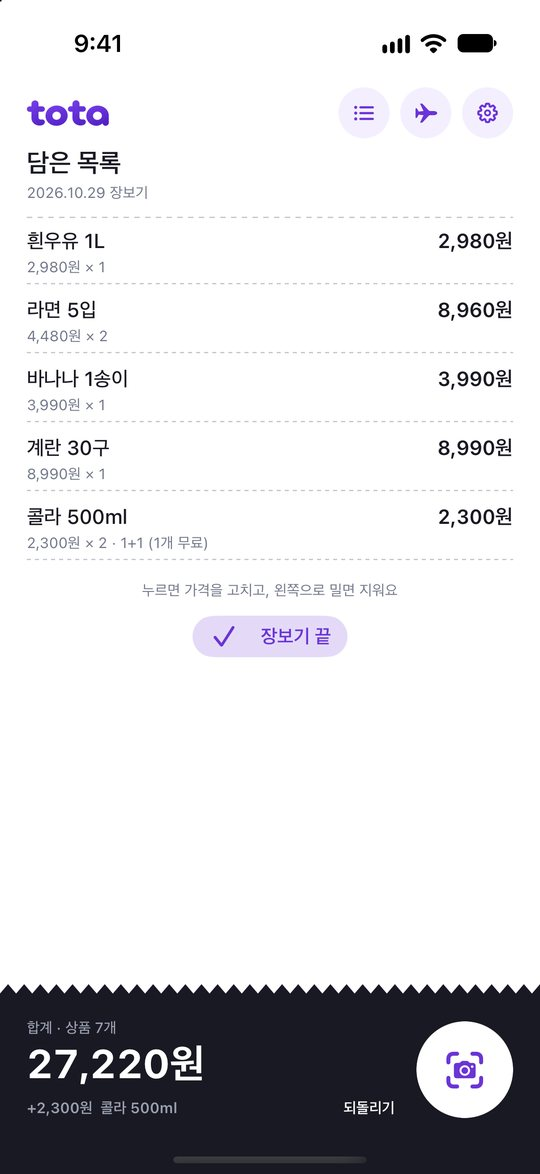
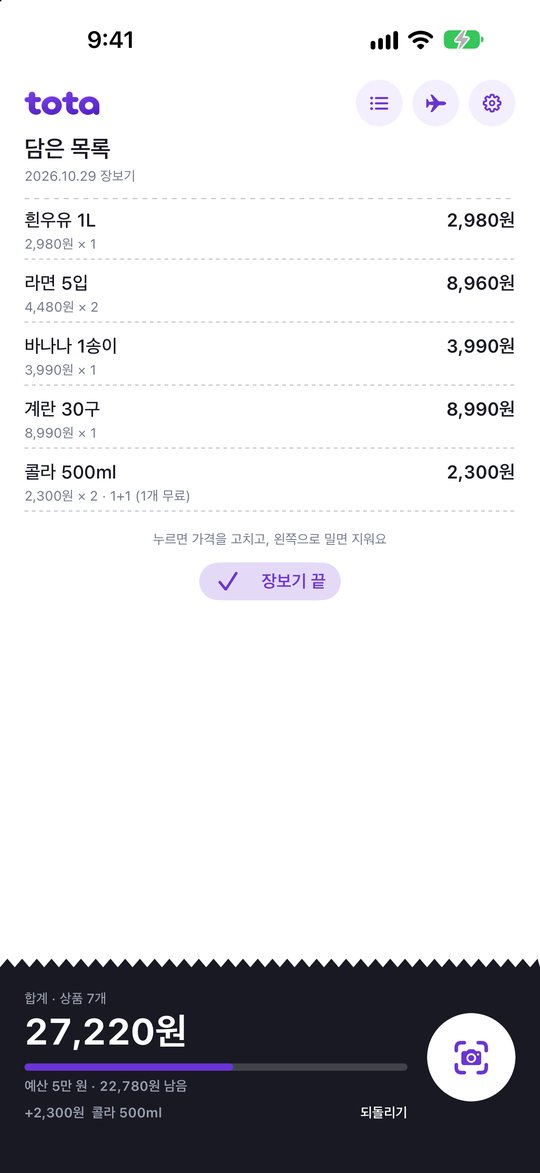
평소 장보기 예산, 외국어 상품 이름 번역 반영 (개인정보 처리방침·설명서)

diff --git a/privacy.html b/privacy.html
@@ -46,6 +46,7 @@ footer { margin-top: 48px; font-size: 13px; color: var(--gray); }
 
   <h2>3. 인터넷 사용</h2>
   <p>엔화·달러·유로 가격을 원화로 바꾸기 위해 공개 환율 서비스(Frankfurter, api.frankfurter.dev)에서 기준환율을 받아옵니다. 외화를 담거나 여행 모드를 시작할 때만, 최대 12시간에 한 번 요청합니다. 이때 이용자 정보는 보내지 않으며, 일반적인 인터넷 요청처럼 기기의 IP 주소만 그 서비스에 전달됩니다.</p>
+  <p>여행 모드에서 외국어 상품 이름은 앱에 든 단어장과 Apple의 번역 기능으로 우리말로 바꿔 보여줍니다. 번역은 iPhone 안에서만 이루어지며 상품 이름을 외부로 보내지 않습니다. 처음 쓸 때 iPhone이 번역 언어 파일을 내려받을지 물어볼 수 있습니다.</p>
   <p>상품을 고치는 화면에서 '온라인은 얼마지?'를 누르면, 이용자가 설정에서 고른 쇼핑몰 검색 페이지가 앱 안 브라우저로 열립니다. 이때 그 상품 이름이 검색어로 그 쇼핑몰에 전달됩니다. 이용자가 직접 누를 때만 열리며, 그 뒤의 정보 처리는 해당 쇼핑몰의 개인정보 처리방침을 따릅니다.</p>
 
   <h2>4. 제3자 제공</h2>
@@ -61,7 +62,7 @@ footer { margin-top: 48px; font-size: 13px; color: var(--gray); }
   <p>이 방침이 바뀌면 이 페이지에 시행일과 함께 알립니다.</p>
 
   <div class="card">
-    <p><b>English summary.</b> tota does not collect any personal data. Cart items, exchange rates and the install date are stored only on your device. Price tags are read on device with Apple's Vision framework; photos are never uploaded. The app requests public exchange rates from Frankfurter (api.frankfurter.dev) without sending any user data. When you tap "온라인은 얼마지?" on an item, the product name is sent as a search query to the shopping site you chose in Settings. No ads, analytics or accounts.</p>
+    <p><b>English summary.</b> tota does not collect any personal data. Cart items, exchange rates and the install date are stored only on your device. Price tags are read on device with Apple's Vision framework; photos are never uploaded. Foreign product names are translated on device with a built-in glossary and Apple's Translation framework. The app requests public exchange rates from Frankfurter (api.frankfurter.dev) without sending any user data. When you tap "온라인은 얼마지?" on an item, the product name is sent as a search query to the shopping site you chose in Settings. No ads, analytics or accounts.</p>
   </div>
 
   <footer>© 2026 tota</footer>

diff --git a/guide.html b/guide.html
@@ -138,6 +138,7 @@ footer { margin-top: 48px; font-size: 13px; color: var(--gray); }
         <li>방금 담은 걸 빼고 싶으면 합계 옆 <b>되돌리기</b>를 누르세요.</li>
         <li>상품을 <b>왼쪽으로 밀면</b> 지울 수 있어요.</li>
         <li>상품을 <b>누르면</b> 가격, 수량, 이름을 고칠 수 있어요.</li>
+        <li>합계 아래 <b>예산 정하기</b>를 누르면 장보기 예산을 정해요. 80%를 넘으면 주황, 넘치면 빨강으로 알려주고 촬영 화면 위에도 남은 예산이 보여요.</li>
       </ul>
     </div>
     <figure><img class="shot" src="guide/04-cart.jpg" alt="담은 상품 목록과 합계" loading="lazy"></figure>
@@ -196,6 +197,7 @@ footer { margin-top: 48px; font-size: 13px; color: var(--gray); }
         <li>오른쪽 위 <span class="btn">여행</span> 버튼을 누르고 나라를 고르세요.</li>
         <li>예산은 눈금을 밀어서 정해요. 금액 아래에 여행지 돈으로 얼마쯤인지 같이 보여줘요. 안 정해도 돼요.</li>
         <li>그 나라 가격표(엔·달러·유로)를 읽고, 오늘 환율로 바꾼 원화를 같이 보여줘요.</li>
+        <li>외국어 상품 이름 아래에 우리말 번역이 보라색으로 붙어요. 처음 한 번은 iPhone이 번역 언어 파일을 받을지 물어볼 수 있어요(iOS 18 이상).</li>
         <li>가게를 옮기면 <b>다음 가게</b>를 눌러 가게별로 나눠 볼 수 있어요.</li>
         <li>일본에선 한 가게에서 면세 기준 금액(세전 5,000엔)까지 얼마 남았는지 막대로 보여줘요.</li>
         <li>여행 중엔 여행 버튼이 보라색으로 채워져요. 그 버튼을 누르면 여행을 끝낼 수 있고, 장바구니 버튼을 누르면 평소 장보기로 돌아가요.</li>
